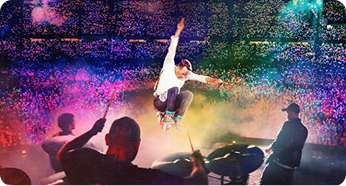
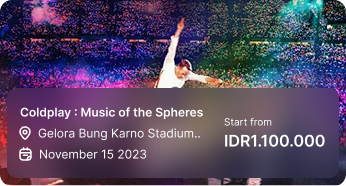
feat: :construction: UI home edited

diff --git a/views/home.html b/views/home.html
@@ -10,8 +10,8 @@
 <body>
     <header>
         <div class="banner">
-            <a href="https://camper.campuslands.com/cursos/366/proyectos"><img src="/storage/img/Menu.png" alt=""></a>
-            <a href="https://www.figma.com/design/SfSxP4lYiJnY195Zmm5zI5/Evento---Event-Mobile-App-(Community)?node-id=1-245&t=JOmIveX9uISvpFYO-0"><img src="/storage/img/Frame 34567.png" alt=""><a>
+            <a href="#"><img src="/storage/img/Menu.png" alt=""></a>
+            <a href="#"><img src="/storage/img/Frame 34567.png" alt=""><a>
         </div>
         <div class="title_home">
             <h1 class="a">Find</h1>
@@ -22,13 +22,13 @@
                 <input type="text" class="search-box">
             </div>
             <div class="srh">
-                <a href="#"><img src="/storage/img/Search 3.png" alt=""></a>
+                <img src="/storage/img/Search 3.png" alt="">
             </div>
             <div class="Stext">
                 <p>Search event..</p>
             </div>
             <div class="filt">
-                <a href="#"><img src="/storage/img/Filter 6.png" alt=""></a>
+                <img src="/storage/img/Filter 6.png" alt="">
             </div>
         </section>
     </header>
@@ -60,7 +60,7 @@
                     <a href="/views/detail.html"><img src="/storage/img/info1.png" alt=""></a>
                 </div>
                 <div class="info-item">
-                    <img src="/storage/img/info2.png" alt="">
+                    <a href="#"><img src="/storage/img/info2.png" alt=""></a>
                 </div>
             </div>
         </div>
@@ -71,7 +71,7 @@
 
         <section class="prices">
             <div class="left">
-                <img src="/storage/img/price1.png" alt="">
+               <a href="#"><img src="/storage/img/price1.png" alt=""></a>
                 <h2>Muse : Will of the People</h2>
                 <h3>Jakarta, Indonesia</h3>
                 <h3>July 23 2023</h3>
@@ -88,7 +88,7 @@
                     </div>    
             </div>
             <div class="right">
-                <img src="/storage/img/price2.png" alt="">
+               <a href="#"><img src="/storage/img/price2.png" alt=""></a>
                 <h2>One Direction : Where We Are</h2>
                 <h3>Jakarta, Indonesia</h3>
                 <h3>Oct 29 2023</h3>
@@ -104,6 +104,24 @@
                         <img src="/storage/img/price.png" alt="">
                     </div>
             </div>
+
+            <div class="botton">
+                <a href="/views/detail.html"><img src="/storage/img/price3.png" alt=""></a>
+                 <h2>Coldplay : Music of the Spheres</h2>
+                 <h3>Jakarta, Indonesia</h3>
+                 <h3>November 15 2023</h3>
+                 <span class="span_fin">
+                     <h1>IDR1.100.000</h1></span>
+                     <div class="location2">  
+                         <img src="/storage/img/Location.png" alt="">
+                     </div>
+                     <div class="calender2">
+                         <img src="/storage/img/calender.png" alt="">
+                     </div>
+                     <div class="etiquete2">
+                         <img src="/storage/img/price.png" alt="">
+                     </div>
+             </div>
         </section>
     </main>
 </body>

diff --git a/css/home.css b/css/home.css
@@ -241,7 +241,7 @@ body{
 .prices{
     z-index: -1;
     display: flex;
-    flex-direction: row;
+    /* flex-direction: row; */
     gap: 5%;    
     margin-top: 70px;
     margin-left: 4%;
@@ -358,3 +358,60 @@ body{
 .span_fin h1{
     color: var(--color-9);
 }
+
+
+.botton{
+    position: absolute;
+    margin-top: 65%;
+    padding-right: 1px;
+    border-radius: 10px;
+    box-shadow: 0 0 5px rgba(0, 0, 0, 0.1);
+}
+.botton img{
+    padding: 8px;
+}
+.botton h2{
+    padding-left: 10px;
+    font-family: "inter";
+    font-size: 10px;
+
+}
+.botton h3{
+    padding-left: 30px;
+    font-family: "inter-regular";
+    margin-top: 5px;
+    margin-bottom: 5px;
+    font-size: 12px;
+}
+.botton h1{
+    padding-left: 30px;
+    font-family: "inter";
+    font-size: 15px;
+    padding-bottom: 10px;
+}
+
+.location2{  
+    /* background-color: wheat; */
+    display: flex;
+    flex-direction: column;
+    position: absolute;
+    width: 28px;
+    top: 145px;
+}
+.calender2{  
+    /* background-color: wheat; */
+    display: flex;
+    flex-direction: column;
+    position: absolute;
+    width: 28px;
+    top: 167px;
+}
+.etiquete2{  
+    /* background-color: wheat; */
+    display: flex;
+    flex-direction: column;
+    position: absolute;
+    width: 30px;
+    top: 195px;
+}
+

diff --git a/views/detail.html b/views/detail.html
@@ -49,7 +49,8 @@
             <h1>IDR1.100.000</h1>
         </div>
         <div class="caja2">
-            <button>Buy Ticket</button>
+            
+            <a href="/views/home.html"><button>Buy Ticket</button></a>
         </div>
       </section>
 </body>
